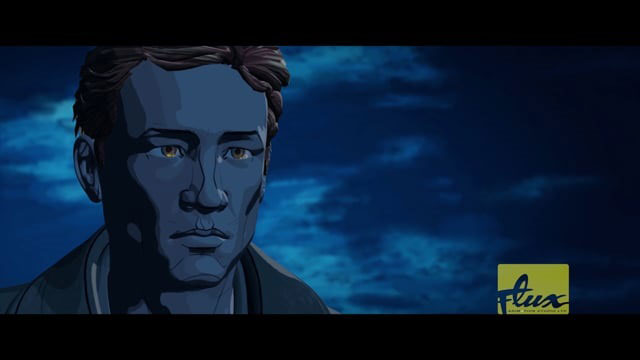
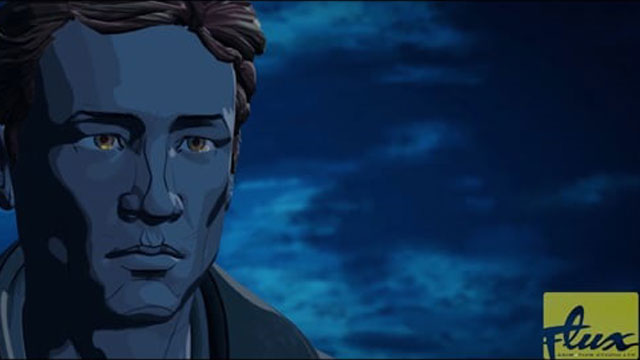
change in cards

diff --git a/src/index.css b/src/index.css
@@ -161,7 +161,7 @@ nav {
   /* border: 1px solid blue; */
   position: relative;
   margin: 0.5%;
-  width: 500px;
+  width: 450px;
   height: 282px;
 }
 
@@ -189,7 +189,7 @@ nav {
 
 .portfolio-title {
   position: absolute;
-  width: 500px;
+  width: 450px;
   top: 120px;
   font-weight: 700;
   font-size: 30px;
@@ -209,7 +209,7 @@ nav {
   position: absolute;
   width: 100px;
   height: 31px;
-  top: 100%;
+  top: 85%;
   left: 70%;
   padding-top: 1%;
   text-align: center;
@@ -231,7 +231,7 @@ nav {
 }
 
 .content_card:hover .portfolio-category {
-  top: 250px;
+  top: 222px;
   opacity: 1;
 }
 

diff --git a/src/data/data.js b/src/data/data.js
@@ -3,7 +3,7 @@ const projects = [
     id: 1,
     category: 'Animation',
     categoryClass: 'portfolio-category-animation',
-    title: '"25 April" Showreel 2016',
+    title: '25 April - Showreel 2016',
     image: '25-april.JPG',
     embed:
       '<iframe class="video" src="https://player.vimeo.com/video/187122203?h=fa80245ddb&autoplay=1&title=0&byline=0&portrait=0" width="1000" height="563" frameborder="0" allow="autoplay; fullscreen; picture-in-picture" allowfullscreen></iframe>' +
